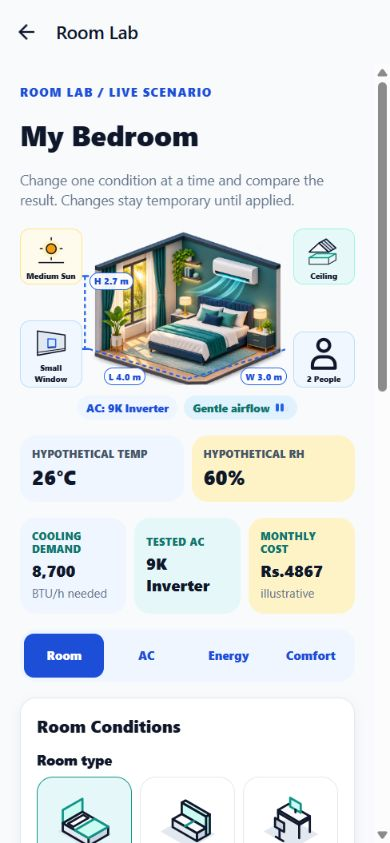
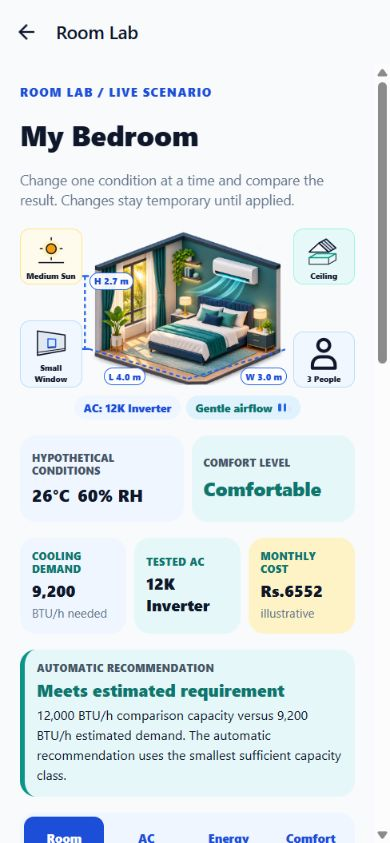
Show comfort and AC suitability on Room Lab dashboard

diff --git a/src/screens/RoomLabScreen.tsx b/src/screens/RoomLabScreen.tsx
@@ -17,7 +17,8 @@ import { RootStackParamList } from '../navigation/routeTypes';
 import { calculateComfort } from '../services/comfortCalculator';
 import { estimateCooling } from '../services/coolingEstimator';
 import { calculateEnergy } from '../services/energyCalculator';
-import { getSuitability, recommendAC } from '../services/recommendationEngine';
+import { recommendAC } from '../services/recommendationEngine';
+import { describeRoomLabMatch, MatchLevel } from '../services/roomLabMatch';
 import { colors, elevation, radius, spacing, typeScale } from '../theme';
 import { RoomLabScenario } from '../types/room';
 import { validateRoom } from '../utils/validation';
@@ -25,6 +26,14 @@ import { validateRoom } from '../utils/validation';
 type Section = 'room' | 'ac' | 'energy' | 'comfort';
 type Props = NativeStackScreenProps<RootStackParamList, 'RoomLab'>;
 const tabs: { id: Section; label: string }[] = [{ id: 'room', label: 'Room' }, { id: 'ac', label: 'AC' }, { id: 'energy', label: 'Energy' }, { id: 'comfort', label: 'Comfort' }];
+const matchColors: Record<MatchLevel, { backgroundColor: string; borderColor: string; color: string }> = {
+  below: { backgroundColor: '#FEF2F2', borderColor: colors.danger, color: colors.danger },
+  higher: { backgroundColor: colors.paleAmber, borderColor: colors.amber, color: colors.amberDark },
+  installation: { backgroundColor: colors.paleAmber, borderColor: colors.amber, color: colors.amberDark },
+  meets: { backgroundColor: colors.mint, borderColor: colors.teal, color: colors.tealDark },
+  none: { backgroundColor: '#FEF2F2', borderColor: colors.danger, color: colors.danger },
+  invalid: { backgroundColor: colors.paleAmber, borderColor: colors.amber, color: colors.amberDark },
+};
 function Adjuster({ label, decrease, increase, atMin, atMax, minus = '−', plus = '＋' }: { label: string; decrease: () => void; increase: () => void; atMin: boolean; atMax: boolean; minus?: string; plus?: string }) {
   return <View style={styles.row}>
     <Pressable accessibilityRole="button" accessibilityLabel={`Decrease ${label}`} accessibilityState={{ disabled: atMin }} disabled={atMin} style={[styles.control, atMin && styles.controlDisabled]} onPress={decrease}><Text>{minus}</Text></Pressable>
@@ -59,13 +68,25 @@ export function RoomLabScreen({ navigation, route }: Props) {
   const estimate = valid ? estimateCooling(scenario) : null;
   const recommended = estimate ? recommendAC(estimate.estimatedBTUh, scenario.installationPreference, scenario.selectionPriority).recommended : null;
   const selected = findACProfile(scenario.selectedACId) ?? recommended;
+  const testingAlternative = Boolean(selected && selected.id !== recommended?.id);
   const energy = selected ? calculateEnergy(selected.illustrativeInputPowerKW, scenario.dailyUsageHours, scenario.electricityRateLKRPerKWh) : null;
   const comfort = calculateComfort(scenario.comfort.temperatureC, scenario.comfort.humidityPercent, scenario.comfort.airflow);
+  const match = describeRoomLabMatch(selected, estimate?.estimatedBTUh ?? null, scenario.installationPreference, testingAlternative);
+  const matchColor = matchColors[match.level];
+  const comfortColors = comfort.label === 'Cool'
+    ? { backgroundColor: colors.paleBlue, color: colors.blueDark }
+    : comfort.label === 'Warm'
+      ? { backgroundColor: colors.paleAmber, color: colors.amberDark }
+      : { backgroundColor: colors.mint, color: colors.tealDark };
   return <Screen key={open}>
     <Text style={styles.eyebrow}>ROOM LAB / LIVE SCENARIO</Text><Text style={styles.title}>{scenario.name}</Text><Text style={styles.sub}>Change one condition at a time and compare the result. Changes stay temporary until applied.</Text>
     <RoomIllustration compact roomType={scenario.roomType} dimensions={scenario} conditions={scenario} acLabel={selected?.name ?? 'No match'} airflow={scenario.comfort.airflow} />
-    <View style={styles.comfortStrip}><View style={styles.comfortChip}><Text style={styles.comfortChipLabel}>HYPOTHETICAL TEMP</Text><Text style={styles.comfortChipValue}>{scenario.comfort.temperatureC}°C</Text></View><View style={[styles.comfortChip, styles.humidityChip]}><Text style={styles.comfortChipLabel}>HYPOTHETICAL RH</Text><Text style={styles.comfortChipValue}>{scenario.comfort.humidityPercent}%</Text></View></View>
+    <View style={styles.comfortStrip}>
+      <View style={styles.comfortChip}><Text style={styles.comfortChipLabel}>HYPOTHETICAL CONDITIONS</Text><View style={styles.conditionValues}><Text style={styles.conditionValue}>{scenario.comfort.temperatureC}°C</Text><Text style={styles.conditionValue}>{scenario.comfort.humidityPercent}% RH</Text></View></View>
+      <View style={[styles.comfortChip, { backgroundColor: comfortColors.backgroundColor }]} accessibilityLabel={`Hypothetical comfort level ${comfort.label}`}><Text style={styles.comfortChipLabel}>COMFORT LEVEL</Text><Text style={[styles.comfortChipValue, { color: comfortColors.color }]}>{comfort.label}</Text></View>
+    </View>
     <View style={styles.metrics}><View style={[styles.metric, styles.metricCooling]}><Text style={styles.tiny}>COOLING DEMAND</Text><Text style={styles.value}>{estimate ? estimate.estimatedBTUh.toLocaleString() : '—'}</Text><Text style={styles.metricUnit}>BTU/h needed</Text></View><View style={[styles.metric, styles.metricAC]}><Text style={styles.tiny}>TESTED AC</Text><Text style={styles.value}>{selected?.name ?? 'No match'}</Text></View><View style={[styles.metric, styles.metricCost]}><Text style={styles.tiny}>MONTHLY COST</Text><Text style={styles.value}>{energy ? `Rs.${energy.monthlyAdditionalEnergyCostLKR.toFixed(0)}` : '—'}</Text><Text style={styles.metricUnit}>illustrative</Text></View></View>
+    <View accessibilityLiveRegion="polite" style={[styles.matchCard, { backgroundColor: matchColor.backgroundColor, borderLeftColor: matchColor.borderColor }]}><Text style={styles.matchEyebrow}>{testingAlternative ? 'TESTED AC DIFFERS FROM RECOMMENDATION' : 'AUTOMATIC RECOMMENDATION'}</Text><Text style={[styles.matchTitle, { color: matchColor.color }]}>{match.title}</Text><Text style={styles.matchExplanation}>{match.explanation}</Text></View>
     <View style={styles.tabs} accessibilityRole="tablist">{tabs.map(tab => <Pressable key={tab.id} accessibilityRole="tab" accessibilityLabel={`${tab.label} tab`} accessibilityState={{ selected: open === tab.id }} onPress={() => setOpen(tab.id)} style={[styles.tab, open === tab.id && styles.activeTab]}><Text style={[styles.tabText, open === tab.id && styles.activeTabText]}>{tab.label}</Text></Pressable>)}</View>
     {open === 'room' && <View style={styles.card}><Text style={styles.heading}>Room Conditions</Text><View style={styles.content}>
       <VisualChoice label="Room type" value={scenario.roomType} options={[{ value: 'bedroom', label: 'Bedroom', artwork: 'room-bedroom' }, { value: 'living', label: 'Living room', artwork: 'room-living' }, { value: 'office', label: 'Small office', artwork: 'room-office' }]} onChange={(roomType) => update({ roomType })} />
@@ -78,7 +99,7 @@ export function RoomLabScreen({ navigation, route }: Props) {
     </View></View>}
     {open === 'ac' && <View style={styles.card}><Text style={styles.heading}>AC Selection</Text><View style={styles.content}>
       <Text style={styles.sub}>Automatic: {recommended?.name ?? 'No suitable match'}{`\n`}Selected for testing: {selected?.name ?? 'None'}</Text>
-      {selected && estimate && <Text style={styles.status}>{getSuitability(selected, estimate.estimatedBTUh) === 'below' ? 'Below Estimated Requirement' : getSuitability(selected, estimate.estimatedBTUh) === 'higher' ? 'Higher Than Estimated Need' : 'Meets Estimated Requirement'}</Text>}
+      <Text style={styles.sub}>The capacity comparison and reason are shown above on every tab.</Text>
       <PrimaryButton label="Browse AC Library" onPress={() => navigation.navigate('LibrarySelect')} />
       {recommended && <PrimaryButton label="Use Recommended AC" variant="outline" onPress={() => update({ selectedACId: null })} />}
     </View></View>}
@@ -88,7 +109,7 @@ export function RoomLabScreen({ navigation, route }: Props) {
       <Text style={styles.sub}>{energy?.monthlyKWh.toFixed(1) ?? '—'} kWh/month · 30 days · 0.65 average-use multiplier</Text>
     </View></View>}
     {open === 'comfort' && <View style={styles.card}><Text style={styles.heading}>Comfort Explorer</Text><View style={styles.content}>
-      <Text style={styles.value}>{comfort.label}</Text><Text style={styles.sub}>{comfort.explanation}</Text><Text style={styles.airflowFeedback}>Airflow set to {scenario.comfort.airflow}. {scenario.comfort.airflow === 'still' ? 'No illustrative breeze is shown.' : scenario.comfort.airflow === 'gentle' ? 'A light illustrative breeze is shown.' : 'The strongest illustrative breeze is shown.'}</Text>
+      <Text style={styles.sub}>{comfort.explanation} These values are chosen examples, not measurements or conditions predicted from the tested AC.</Text><Text style={styles.airflowFeedback}>Airflow set to {scenario.comfort.airflow}. {scenario.comfort.airflow === 'still' ? 'No illustrative breeze is shown.' : scenario.comfort.airflow === 'gentle' ? 'A light illustrative breeze is shown.' : 'The strongest illustrative breeze is shown.'}</Text>
       <Text style={styles.label}>Hypothetical temperature: {scenario.comfort.temperatureC}°C</Text><Adjuster label="hypothetical temperature" atMin={scenario.comfort.temperatureC<=20} atMax={scenario.comfort.temperatureC>=34} decrease={() => update({ comfort: { ...scenario.comfort, temperatureC: Math.max(20, scenario.comfort.temperatureC - 1) } })} increase={() => update({ comfort: { ...scenario.comfort, temperatureC: Math.min(34, scenario.comfort.temperatureC + 1) } })} />
       <Text style={styles.label}>Relative humidity: {scenario.comfort.humidityPercent}%</Text><Adjuster label="relative humidity by 5 percent" minus="−5%" plus="＋5%" atMin={scenario.comfort.humidityPercent<=30} atMax={scenario.comfort.humidityPercent>=90} decrease={() => update({ comfort: { ...scenario.comfort, humidityPercent: Math.max(30, scenario.comfort.humidityPercent - 5) } })} increase={() => update({ comfort: { ...scenario.comfort, humidityPercent: Math.min(90, scenario.comfort.humidityPercent + 5) } })} />
       <AirflowChoice value={scenario.comfort.airflow} onChange={(airflow) => update({ comfort: { ...scenario.comfort, airflow } })} />
@@ -104,13 +125,18 @@ const styles = StyleSheet.create({
   title: { fontSize: typeScale.title, fontWeight: '800', color: colors.navy },
   sub: { color: colors.muted, lineHeight: 20 },
   comfortStrip: { flexDirection: 'row', gap: 8 },
-  comfortChip: { flex: 1, backgroundColor: colors.paleBlue, borderRadius: radius.md, padding: spacing.md, gap: 3 },
-  humidityChip: { backgroundColor: colors.paleAmber },
+  comfortChip: { flex: 1, minWidth: 0, minHeight: 86, justifyContent: 'center', backgroundColor: colors.paleBlue, borderRadius: radius.md, padding: spacing.md, gap: 6 },
   comfortChipLabel: { color: colors.slate, fontSize: 10, fontWeight: '800', letterSpacing: 0.4 },
-  comfortChipValue: { color: colors.navy, fontSize: 20, fontWeight: '900' },
+  comfortChipValue: { color: colors.navy, fontSize: 19, fontWeight: '900' },
+  conditionValues: { flexDirection: 'row', flexWrap: 'wrap', alignItems: 'baseline', columnGap: 8, rowGap: 2 },
+  conditionValue: { color: colors.navy, fontSize: 17, fontWeight: '900' },
   metrics: { flexDirection: 'row', flexWrap: 'wrap', gap: 8 },
   metric: { flexGrow: 1, flexBasis: 100, minHeight: 96, justifyContent: 'center', padding: spacing.md, borderRadius: radius.md, gap: 4 },
   metricCooling: { backgroundColor: colors.paleBlue }, metricAC: { backgroundColor: colors.mint }, metricCost: { backgroundColor: colors.paleAmber },
+  matchCard: { borderLeftWidth: 5, borderRadius: radius.md, padding: spacing.md, gap: 4 },
+  matchEyebrow: { color: colors.slate, fontSize: 10, fontWeight: '800', letterSpacing: 0.5 },
+  matchTitle: { fontSize: 17, fontWeight: '900' },
+  matchExplanation: { color: colors.navy, lineHeight: 20, fontSize: 13 },
   value: { fontSize: 16, fontWeight: '800', color: colors.navy },
   tiny: { fontSize: 10, fontWeight: '800', letterSpacing: 0.5, color: colors.tealDark },
   metricUnit: { fontSize: 12, color: colors.muted },
@@ -130,7 +156,6 @@ const styles = StyleSheet.create({
   occupantImage: { width: 82, height: 82 },
   control: { minHeight: 44, padding: 12, minWidth: 52, alignItems: 'center', justifyContent: 'center', backgroundColor: colors.surface, borderRadius: radius.sm, borderColor: colors.blue, borderWidth: 1 },
   controlDisabled: { opacity: 0.5 },
-  status: { color: colors.tealDark, fontWeight: '800' },
   airflowFeedback: { color: colors.blueDark, backgroundColor: colors.paleBlue, borderRadius: radius.sm, padding: spacing.md, lineHeight: 20 },
   error: { color: colors.danger, fontWeight: '700' },
 });

diff --git a/__tests__/roomLab.test.ts b/__tests__/roomLab.test.ts
@@ -1,0 +1,58 @@
+import assert from 'node:assert/strict';
+import test from 'node:test';
+import { findACProfile } from '../src/data/acProfiles';
+import { calculateComfort } from '../src/services/comfortCalculator';
+import { estimateCooling } from '../src/services/coolingEstimator';
+import { calculateEnergy } from '../src/services/energyCalculator';
+import { recommendAC } from '../src/services/recommendationEngine';
+import { describeRoomLabMatch } from '../src/services/roomLabMatch';
+import { createDefaultRoom } from '../src/types/room';
+
+const room = createDefaultRoom();
+const baseline = estimateCooling(room);
+
+test('Room tab choices recalculate demand, including every room-condition family', () => {
+  assert.equal(baseline.estimatedBTUh, 8700);
+  for (const roomType of ['living', 'office'] as const) assert.ok(estimateCooling({ ...room, roomType }).rawBTUh > baseline.rawBTUh);
+  for (const [key, value] of [
+    ['lengthM', 5], ['widthM', 4], ['heightM', 3], ['sunlight', 'high'],
+    ['windowCategory', 'large'], ['roofConfiguration', 'noCeiling'],
+  ] as const) assert.ok(estimateCooling({ ...room, [key]: value }).rawBTUh > baseline.rawBTUh, `${key} should increase demand`);
+  assert.equal(estimateCooling({ ...room, occupants: 1 }).rawBTUh, baseline.rawBTUh);
+  assert.equal(estimateCooling({ ...room, occupants: 3 }).rawBTUh - baseline.rawBTUh, 500);
+  assert.equal(estimateCooling({ ...room, occupants: 10 }).rawBTUh - baseline.rawBTUh, 4000);
+  const imperialDisplay = { ...room, preferredUnit: 'imperial' as const };
+  assert.equal(estimateCooling(imperialDisplay).estimatedBTUh, baseline.estimatedBTUh);
+});
+
+test('AC tab selection updates capacity status and explains manual mismatch', () => {
+  const recommended = recommendAC(baseline.estimatedBTUh, room.installationPreference, room.selectionPriority).recommended;
+  assert.equal(recommended?.id, 'SPL-09-INV');
+  assert.equal(describeRoomLabMatch(recommended, baseline.estimatedBTUh, 'either', false).level, 'meets');
+  assert.equal(describeRoomLabMatch(findACProfile('POR-09-CMP'), baseline.estimatedBTUh, 'either', true).level, 'below');
+  assert.match(describeRoomLabMatch(findACProfile('POR-09-CMP'), baseline.estimatedBTUh, 'split', true).explanation, /differs from the chosen split/);
+  assert.equal(describeRoomLabMatch(findACProfile('SPL-24-INV'), baseline.estimatedBTUh, 'either', true).level, 'higher');
+  assert.equal(describeRoomLabMatch(findACProfile('POR-12-PLUS'), baseline.estimatedBTUh, 'split', true).level, 'installation');
+  assert.equal(describeRoomLabMatch(recommended, null, 'either', false).level, 'invalid');
+  assert.equal(describeRoomLabMatch(null, 30000, 'either', false).level, 'none');
+  assert.equal(recommendAC(30000, 'split', 'balanced').recommended, null);
+});
+
+test('Energy tab hours and rate change cost without changing cooling demand', () => {
+  const power = findACProfile('SPL-09-INV')!.illustrativeInputPowerKW;
+  const initial = calculateEnergy(power, room.dailyUsageHours, room.electricityRateLKRPerKWh);
+  assert.ok(Math.abs(calculateEnergy(power, 9, 40).monthlyKWh - initial.monthlyKWh - power * 30 * 0.65) < 1e-9);
+  assert.equal(calculateEnergy(power, 8, 45).monthlyKWh, initial.monthlyKWh);
+  assert.ok(calculateEnergy(power, 8, 45).monthlyAdditionalEnergyCostLKR > initial.monthlyAdditionalEnergyCostLKR);
+  const differentUsage = { ...room, dailyUsageHours: 16, electricityRateLKRPerKWh: 80 };
+  assert.equal(estimateCooling(differentUsage).estimatedBTUh, baseline.estimatedBTUh);
+});
+
+test('Comfort tab temperature, RH and airflow change only the hypothetical comfort label', () => {
+  assert.equal(calculateComfort(26, 60, 'gentle').label, 'Comfortable');
+  assert.equal(calculateComfort(23, 30, 'strong').label, 'Cool');
+  assert.equal(calculateComfort(29, 80, 'still').label, 'Warm');
+  assert.equal(calculateComfort(28, 60, 'still').label, 'Warm');
+  assert.equal(calculateComfort(28, 60, 'strong').label, 'Comfortable');
+  assert.equal(estimateCooling(room).estimatedBTUh, baseline.estimatedBTUh);
+});

diff --git a/src/services/roomLabMatch.ts b/src/services/roomLabMatch.ts
@@ -1,0 +1,25 @@
+import { ACProfile } from '../types/ac';
+import { InstallationPreference } from '../types/room';
+import { getSuitability } from './recommendationEngine';
+
+export type MatchLevel = 'below' | 'higher' | 'installation' | 'meets' | 'none' | 'invalid';
+export interface RoomLabMatch { level: MatchLevel; title: string; explanation: string; }
+
+export function describeRoomLabMatch(
+  selected: ACProfile | null | undefined,
+  estimatedBTUh: number | null,
+  installation: InstallationPreference,
+  manuallySelected: boolean,
+): RoomLabMatch {
+  if (estimatedBTUh === null) return { level: 'invalid', title: 'Check room measurements', explanation: 'Enter valid room dimensions to compare this AC with the estimated demand.' };
+  if (!selected) return { level: 'none', title: 'No suitable AC in this catalogue', explanation: `The room needs about ${estimatedBTUh.toLocaleString()} BTU/h. Try changing the installation preference or room conditions.` };
+
+  const capacity = selected.comparisonCapacityBTU;
+  const comparison = `${capacity.toLocaleString()} BTU/h comparison capacity versus ${estimatedBTUh.toLocaleString()} BTU/h estimated demand.`;
+  const suitability = getSuitability(selected, estimatedBTUh);
+  const installationDiffers = installation !== 'either' && selected.category !== installation;
+  if (suitability === 'below') return { level: 'below', title: 'Below estimated requirement', explanation: `${comparison} This AC is short by ${(estimatedBTUh - capacity).toLocaleString()} BTU/h.${installationDiffers ? ` It also differs from the chosen ${installation} installation type.` : ''}` };
+  if (installationDiffers) return { level: 'installation', title: 'Installation preference differs', explanation: `${comparison} Capacity is sufficient, but this ${selected.category} AC differs from the chosen ${installation} installation type.` };
+  if (suitability === 'higher') return { level: 'higher', title: 'Higher than estimated need', explanation: `${comparison} Its capacity is more than 1.5 times the estimate; consider a smaller sufficient class.` };
+  return { level: 'meets', title: 'Meets estimated requirement', explanation: `${comparison} ${manuallySelected ? 'This tested AC has sufficient capacity for the estimate.' : 'The automatic recommendation uses the smallest sufficient capacity class.'}` };
+}

diff --git a/Documentation/Room_Lab_Phase1_QA_2026-11-15.md b/Documentation/Room_Lab_Phase1_QA_2026-11-15.md
@@ -1,0 +1,14 @@
+# Room Lab Phase 1 QA — 15 November 2026
+
+Tested the Expo web preview at 390 × 844 and 320 × 720. The 320 px dashboard wrapped the shared temperature/RH values and the metric cards without overlap. These are browser interaction checks, not an installed Android device test.
+
+| Area | Checks | Result |
+| --- | --- | --- |
+| Room | All three room types, all sunlight/window/roof choices, metres/feet, length/width/height edits, invalid dimension | Demand updated as expected; unit switch preserved demand; invalid input hid demand and disabled Apply. |
+| People | Increased 2→10, decreased 10→1 | Demand rose by 500 raw BTU/h for each person after the second; controls disabled at 1 and 10. |
+| AC | Current recommendation, insufficient portable profile, higher-capacity 24K profile, Use Recommended AC, Library selection | Main dashboard showed capacity/reason on every tab; tested AC and illustrative cost updated. |
+| Energy | Daily use 1–16 hours, illustrative rate Rs.10–80/kWh | Controls disabled at limits; hours changed kWh/cost, rate changed cost only; demand stayed fixed. |
+| Comfort | Temperature 20–34°C, RH 30–90%, Still/Gentle/Strong airflow | Controls disabled at limits; Cool/Comfortable/Warm dashboard status and airflow feedback changed; demand stayed fixed. |
+| Scenario | Reset to Entry, Apply Changes | Reset restored the entry scenario; Apply transferred a 3-person scenario and Recommendation recalculated to 9,200 BTU/h/12K Inverter. |
+
+The automated Room Lab tests cover calculation changes, capacity and installation explanations, no-match and invalid-room states, energy, and comfort. The existing saved-room tests still cover persistence. Device-specific interaction, screen reader, and airplane-mode checks remain for the installed APK.

diff --git a/README.md b/README.md
@@ -22,7 +22,7 @@ The app is an educational selection assistant, not professional HVAC design soft
 
 ## Screenshots
 
-These screenshots were captured from the current app at a 390 × 844 mobile browser viewport on 14 November 2026. They show the app's mobile layout; installed Android screenshots and the airplane-mode device test are still pending.
+These screenshots were captured from the app at a 390 × 844 mobile browser viewport on 14–15 November 2026. They show the app's mobile layout; installed Android screenshots and the airplane-mode device test are still pending.
 
 | Home | Room Setup | Recommendation |
 | --- | --- | --- |
